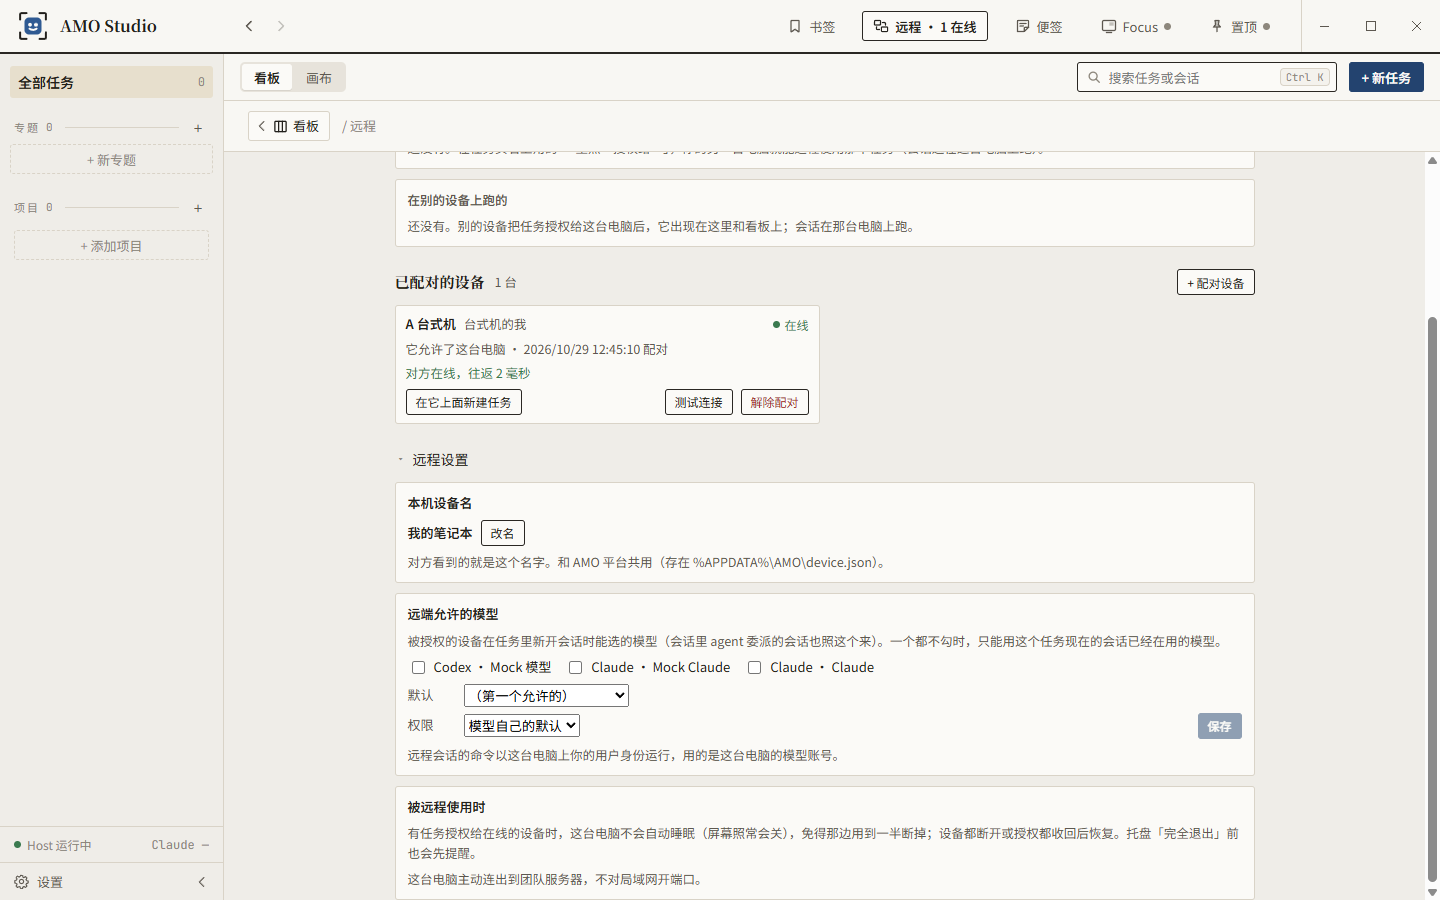
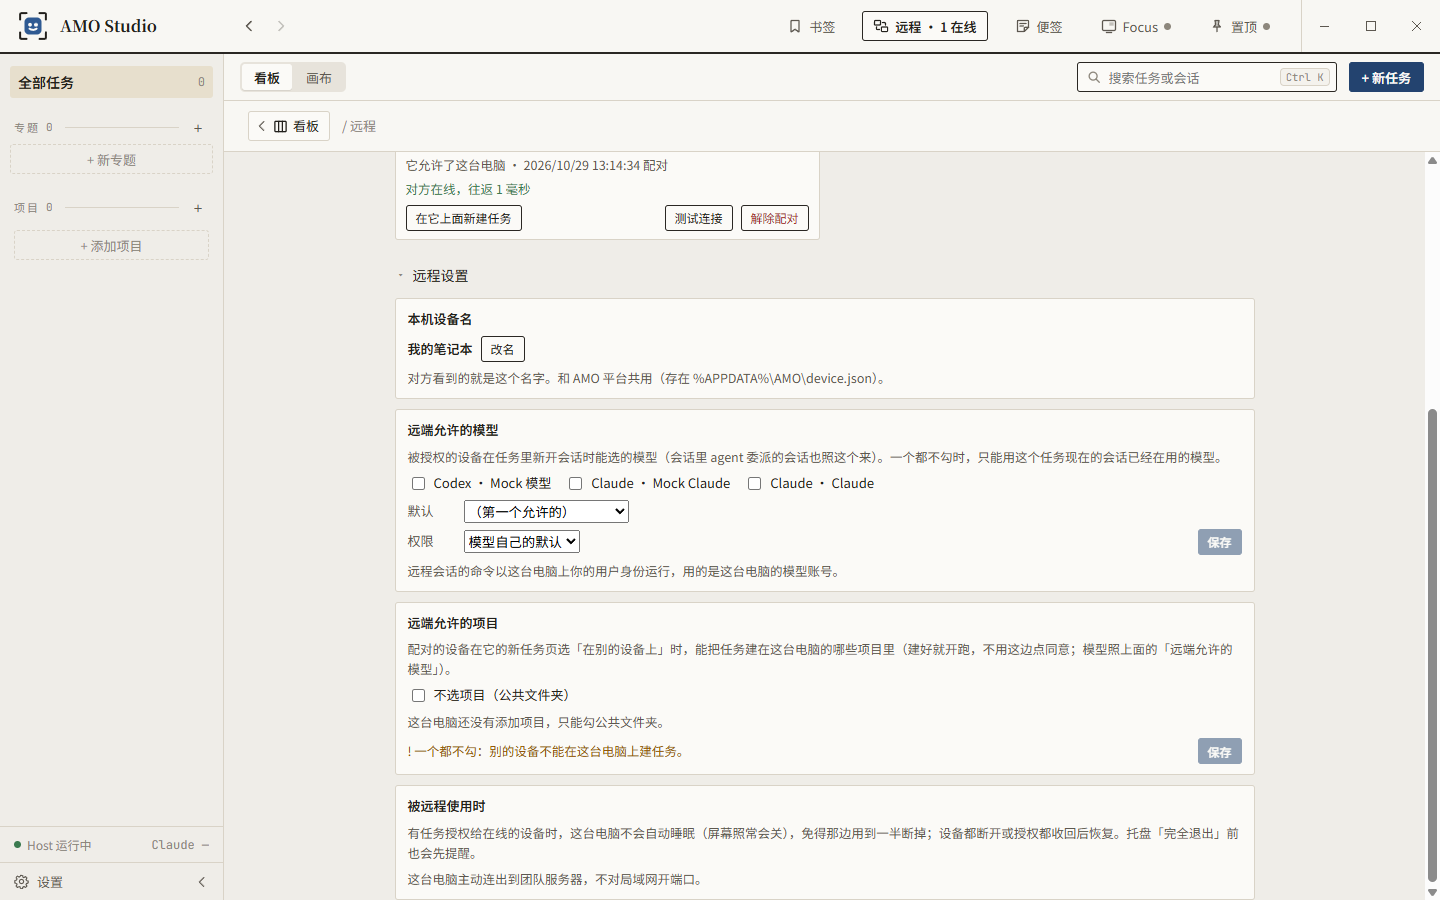
test(studio): e2e for 远程创建 — two Studios through an in-process relay: B's new-task page says where to tick on A before anything is allowed; A ticks a model and a project in 远程设置; B opens 新任务 from A's device card in 「在别的设备上」, sees only the allowed project (「不选」 greyed) and model, the topic picks its 

diff --git a/studio/e2e/studio/remote-create.spec.ts b/studio/e2e/studio/remote-create.spec.ts
@@ -1,0 +1,152 @@
+import { mkdtempSync } from "node:fs";
+import { tmpdir } from "node:os";
+import { join } from "node:path";
+import { pathToFileURL } from "node:url";
+import { expect, test, type Page } from "@playwright/test";
+import type { ModelProfile, RemoteState, Session, Task, Topic, Workspace } from "@amo-studio/protocol";
+import { removeTempDir } from "@amo-studio/testkit";
+import { launchStudio, screenshot, studioRoot, type Studio } from "../support/studio.js";
+
+// 远程创建 (plans/remote-page-and-new-task.md 4.1, 2026-10-29): two Studios on this machine (each its own AMO_HOME and
+// data, the mock model), paired through a relay service started here — never the team server. A ticks 远端允许的模型 and
+// 远端允许的项目 in 远程 → 远程设置 (before that, B's new-task page says where to tick); B opens 新任务, switches to
+// 「在别的设备上」 (the device card's 「在它上面新建任务」 does it with A picked), picks a topic — its one allowed project
+// comes with it — types the first sentence, Enter: the task is made on A in that topic and project, granted to B, its
+// session runs on A, and B's page opens the copy.
+
+const relay = (await import(pathToFileURL(join(studioRoot, "packages", "relay", "dist", "index.js")).href)) as typeof import("../../packages/relay/src/index.js");
+const account = (await import(pathToFileURL(join(studioRoot, "packages", "account", "dist", "index.js")).href)) as typeof import("../../packages/account/src/index.js");
+
+let root = "";
+let store: InstanceType<typeof relay.RelayStore> | undefined;
+let server: Awaited<ReturnType<typeof relay.startRelayServer>> | undefined;
+const studios: Studio[] = [];
+
+test.afterEach(async () => {
+  for (const s of studios.splice(0)) await s.close().catch(() => undefined);
+  await server?.close();
+  store?.close();
+  server = undefined;
+  store = undefined;
+  if (root) removeTempDir(root);
+  root = "";
+});
+
+async function until<T>(read: () => Promise<T>, ok: (v: T) => boolean, what: string, ms = 30_000): Promise<T> {
+  const end = Date.now() + ms;
+  for (;;) {
+    const v = await read();
+    if (ok(v)) return v;
+    if (Date.now() > end) throw new Error(`timed out waiting for ${what}`);
+    await new Promise((r) => setTimeout(r, 200));
+  }
+}
+
+/** The top bar's 「远程」 → the remote page. */
+async function openRemote(page: Page) {
+  await page.getByTestId("topbar-remote").click();
+  const remote = page.getByRole("region", { name: "远程", exact: true });
+  await expect(remote).toBeVisible();
+  return remote;
+}
+
+test("A ticks a project and a model; B creates a task on A from its new-task page: made in the topic and project, running on A, the copy opened on B", async () => {
+  test.setTimeout(300_000);
+  root = mkdtempSync(join(tmpdir(), "amo-remote-create-e2e-"));
+  store = new relay.RelayStore(join(root, "relay", "relay.db"));
+  server = await relay.startRelayServer({ store, host: "127.0.0.1", port: 0, name: "测试组" });
+  const home = async (name: string, key: string, device: string) => {
+    const dir = join(root, `home-${name}`);
+    await account.saveAccount({ server: server!.url, name, key }, { env: { AMO_HOME: dir } });
+    account.setDeviceName(device, { env: { AMO_HOME: dir } });
+    return dir;
+  };
+  const a = await launchStudio({ env: { AMO_HOME: await home("台式机的我", store.register("台式机的我", "pw-aaaa").key, "A 台式机") } });
+  studios.push(a);
+  const b = await launchStudio({ env: { AMO_HOME: await home("笔记本的我", store.register("笔记本的我", "pw-bbbb").key, "B 笔记本") } });
+  studios.push(b);
+  await until(() => b.api<RemoteState>("GET", "/api/remote"), (s) => s.connection.state === "online", "B online");
+  await until(() => a.api<RemoteState>("GET", "/api/remote"), (s) => s.connection.state === "online", "A online");
+  await b.api("POST", "/api/remote/pair", { account: "台式机的我" });
+  const asked = await until(() => a.api<RemoteState>("GET", "/api/remote"), (s) => s.incoming.length === 1, "A sees the pairing request");
+  await a.api("POST", `/api/remote/requests/${asked.incoming[0]!.id}/answer`, { allow: true });
+  await until(() => b.api<RemoteState>("GET", "/api/remote"), (s) => s.peers[0]?.online === true, "B sees A online");
+
+  // A: two projects and a topic whose projects are both (only one will be allowed).
+  const allowed = await a.api<Workspace>("POST", "/api/workspaces", { path: a.workspace("可以远程的项目") });
+  const other = await a.api<Workspace>("POST", "/api/workspaces", { path: a.workspace("不给远程的项目") });
+  const topic = await a.api<Topic>("POST", "/api/topics", { title: "掉落表整理", workspaceIds: [allowed.id, other.id] });
+
+  // B before A ticked anything: the switch is there, and the page says where to tick on A.
+  await b.page.getByRole("button", { name: "+ 新任务" }).click();
+  const side = b.page.getByTestId("draft-side");
+  await expect(side).toBeVisible();
+  await side.getByRole("button", { name: "在别的设备上" }).click();
+  const draft = b.page.getByTestId("remote-draft");
+  await expect(draft.getByTestId("remote-draft-device")).toHaveText("A 台式机");
+  await expect(draft.getByTestId("remote-draft-device")).toHaveAttribute("aria-pressed", "true");
+  await expect(draft.getByTestId("remote-draft-state")).toContainText("A 台式机 还没勾远端允许的项目：在那台电脑的 远程 → 远程设置 里勾");
+  await expect(b.page.getByTestId("remote-draft-start")).toBeDisabled();
+  await screenshot(b.app, "studio", "remote-create-not-allowed", b.page);
+  // Back to this computer: the local rows again.
+  await side.getByRole("button", { name: "在这台电脑上" }).click();
+  await expect(b.page.getByRole("group", { name: "设备" })).toHaveCount(0);
+  await expect(b.page.getByRole("group", { name: "项目" })).toBeVisible();
+  await b.page.getByTestId("back").click();
+
+  // A: 远程 → 远程设置: a model, then a project (not the common folder).
+  const aRemote = await openRemote(a.page);
+  await aRemote.getByTestId("remote-settings-open").click();
+  const mock = (await a.api<{ profiles: ModelProfile[] }>("GET", "/api/state")).profiles.find((p) => p.id === "codex-mock")!;
+  const models = aRemote.getByTestId("remote-allowed");
+  await models.getByTestId("remote-allowed-item").filter({ hasText: mock.label }).locator("input").check();
+  await models.getByTestId("remote-allowed-save").click();
+  await expect(aRemote.getByTestId("remote-message")).toHaveText("已保存远端允许的模型");
+  const projects = aRemote.getByTestId("remote-allowed-projects");
+  await expect(projects.getByTestId("remote-allowed-projects-state")).toHaveText("! 一个都不勾：别的设备不能在这台电脑上建任务。");
+  await projects.getByTestId("remote-allowed-project").filter({ hasText: "可以远程的项目" }).locator("input").check();
+  await expect(projects.getByTestId("remote-allowed-projects-state")).toHaveText("别的设备可以在 1 个项目里建任务。");
+  await projects.getByTestId("remote-allowed-projects-save").click();
+  await expect(aRemote.getByTestId("remote-message")).toHaveText("已保存远端允许的项目");
+  await projects.scrollIntoViewIfNeeded();
+  await screenshot(a.app, "studio", "remote-allowed-projects", a.page);
+  expect((await a.api<RemoteState>("GET", "/api/remote")).allowedProjects).toEqual({ workspaceIds: [allowed.id], common: false });
+
+  // B: 远程 → A's card → 在它上面新建任务: the new-task page in 「在别的设备上」, A picked, A's catalog.
+  const bRemote = await openRemote(b.page);
+  await bRemote.getByTestId("remote-peer").filter({ hasText: "A 台式机" }).getByTestId("remote-new-task").click();
+  await expect(b.page.getByTestId("draft-side-remote")).toHaveAttribute("aria-pressed", "true");
+  const topics = draft.getByRole("group", { name: "专题" });
+  const projectRow = draft.getByRole("group", { name: "项目" });
+  await expect(topics.getByRole("button", { name: "掉落表整理" })).toBeVisible();
+  // Only the allowed project; 「不选」 (the common folder) is not allowed there.
+  await expect(projectRow.getByRole("button")).toHaveText(["不选", "可以远程的项目"]);
+  await expect(projectRow.getByRole("button", { name: "不选" })).toBeDisabled();
+  await expect(b.page.getByTestId("remote-draft-model")).toHaveText([`Codex · ${mock.label}`]);
+  await expect(b.page.getByTestId("remote-draft-model")).toHaveAttribute("aria-pressed", "true");
+  await expect(b.page.getByTestId("remote-draft-attach-note")).toContainText("远程任务暂时不能发图片和文件");
+  // The topic picks its one allowed project.
+  await topics.getByRole("button", { name: "掉落表整理" }).click();
+  await expect(projectRow.getByRole("button", { name: /可以远程的项目/ })).toHaveAttribute("aria-pressed", "true");
+  await expect(b.page.getByTestId("scope-hint")).toHaveText("在 A 台式机 上的 可以远程的项目 里运行 · 放进那边的「掉落表整理」");
+  const text = b.page.getByTestId("remote-draft-text");
+  await text.fill("在台式机上整理掉落表");
+  await screenshot(b.app, "studio", "remote-create-page", b.page);
+  await text.press("Enter");
+
+  // B: the copy's task page, the session running on A.
+  await expect(b.page.locator(".page-head")).toContainText("在台式机上整理掉落表", { timeout: 60_000 });
+  await expect(b.page.getByTestId("msg-agent").last()).toContainText("MOCK: 在台式机上整理掉落表", { timeout: 60_000 });
+  await screenshot(b.app, "studio", "remote-create-running", b.page);
+  // A: the task in the topic and the allowed project, granted to B, its session on the allowed model.
+  const aState = await a.api<{ tasks: Task[]; sessions: Session[] }>("GET", "/api/state");
+  const made = aState.tasks.find((t) => t.title === "在台式机上整理掉落表")!;
+  expect(made).toMatchObject({ workspaceId: allowed.id, topicId: topic.id, column: "doing" });
+  expect(aState.sessions.filter((s) => s.taskId === made.id).map((s) => s.profileId)).toEqual(["codex-mock"]);
+  expect((await a.api<RemoteState>("GET", "/api/remote")).grants).toMatchObject([{ taskId: made.id, account: "笔记本的我" }]);
+  // B's board: the remote card.
+  await b.page.getByTestId("back").click();
+  await b.page.getByTestId("back").click();
+  const card = b.page.getByTestId("task-card").filter({ hasText: "在台式机上整理掉落表" });
+  await expect(card).toHaveAttribute("data-remote", "online", { timeout: 30_000 });
+});

diff --git a/studio/e2e/studio/remote-requests.spec.ts b/studio/e2e/studio/remote-requests.spec.ts
@@ -8,8 +8,8 @@ import { removeTempDir } from "@amo-studio/testkit";
 import { launchStudio, screenshot, studioRoot, type Studio } from "../support/studio.js";
 
 // 远程, step 4 (plans/remote-session.md 方式 2, 2026-10-29): two Studios on this machine (each its own AMO_HOME and data,
-// the mock model), paired through a relay service started here — never the team server. B asks A to run a task from
-// the remote page (the top bar's 「远程」, 设置 → 远程 until 2026-10-29); A's Focus shows the request; A picks the project and an allowed model and allows it; B's board shows the
+// the mock model), paired through a relay service started here — never the team server. B asks A to run a task (as an
+// older B does: a new one creates it from its new-task page, remote-create.spec.ts); A's Focus shows the request; A picks the project and an allowed model and allows it; B's board shows the
 // task, running. A refuses a second request with a reason, and B reads it.
 
 const relay = (await import(pathToFileURL(join(studioRoot, "packages", "relay", "dist", "index.js")).href)) as typeof import("../../packages/relay/src/index.js");
@@ -83,19 +83,11 @@ test("B asks A to run a task; A's Focus shows it, A picks the project and an all
   await a.api("PUT", "/api/remote/allowed", { profiles: ["codex-mock"], defaultProfile: "codex-mock", permission: null });
   const aFocus = await turnOnFocus(a.page, a.app);
 
-  // B: 远程 → the paired device → 在它上面新建任务 (the request dialog, until the new-task page has a remote mode).
+  // B sends a request as an older B would (远程创建 replaced the request dialog, 2026-10-29: a new B creates the task
+  // from its new-task page, remote-create.spec.ts); A still answers requests, and B still lists what it sent.
   const bSettings = await openRemote(b.page);
-  const peer = bSettings.getByTestId("remote-peer").filter({ hasText: "A 台式机" });
-  await expect(peer.getByTestId("remote-ask-open")).toHaveText("在它上面新建任务");
-  await peer.getByTestId("remote-ask-open").click();
-  const ask = b.page.getByTestId("remote-ask-dialog");
-  await ask.getByTestId("remote-ask-title").fill("远程请求的任务");
-  await ask.getByTestId("remote-ask-text").fill("请帮我跑一下这个");
-  await expect(ask).toContainText("只在 A 台式机 在线时能发");
-  await screenshot(b.app, "studio", "remote-ask-dialog", b.page);
-  await ask.getByTestId("remote-ask-send").click();
-  await expect(ask).toHaveCount(0);
-  await expect(bSettings.getByTestId("remote-message")).toHaveText("已发给 A 台式机，等它同意");
+  const sentA = (await b.api<RemoteState>("GET", "/api/remote")).peers.find((p) => p.role === "guest")!;
+  await b.api("POST", "/api/remote/asks", { account: sentA.account, device: sentA.device, title: "远程请求的任务", text: "请帮我跑一下这个" });
   // The request waits under 「在别的设备上跑的」.
   const sent = bSettings.getByTestId("remote-copies").getByTestId("remote-ask");
   await expect(sent).toHaveAttribute("data-state", "pending");
@@ -142,10 +134,7 @@ test("B asks A to run a task; A's Focus shows it, A picks the project and an all
 
   // A second request, refused with a reason: B reads it (and the dot on the top bar's 「远程」 says there is something to see).
   const again = await openRemote(b.page);
-  await again.getByTestId("remote-peer").filter({ hasText: "A 台式机" }).getByTestId("remote-ask-open").click();
-  await b.page.getByTestId("remote-ask-title").fill("第二个请求");
-  await b.page.getByTestId("remote-ask-text").fill("这个也跑一下");
-  await b.page.getByTestId("remote-ask-send").click();
+  await b.api("POST", "/api/remote/asks", { account: sentA.account, device: sentA.device, title: "第二个请求", text: "这个也跑一下" });
   await until(() => a.api<RemoteState>("GET", "/api/remote"), (s) => s.taskRequests.length === 1, "A has the second request");
   const aAgain = await openRemote(a.page);
   await aAgain.getByTestId("remote-task-request").getByTestId("remote-task-refuse").click();

diff --git a/studio/e2e/studio/remote.spec.ts b/studio/e2e/studio/remote.spec.ts
@@ -126,14 +126,14 @@ test("B asks to pair, A allows from Focus, both test the connection, A unpairs a
   await expect(aPeer.getByTestId("remote-presence")).toHaveText("在线");
   await expect(aPeer).toContainText("这台电脑允许了它");
   // Only a device that allowed this computer can run a task for it.
-  await expect(aPeer.getByTestId("remote-ask-open")).toHaveCount(0);
+  await expect(aPeer.getByTestId("remote-new-task")).toHaveCount(0);
 
   // B: A is there, online; the request is gone from its list.
   const bPeer = bRemote.getByTestId("remote-peer");
   await expect(bPeer).toHaveCount(1, { timeout: 20_000 });
   await expect(bPeer).toContainText("A 台式机");
   await expect(bPeer).toContainText("它允许了这台电脑");
-  await expect(bPeer.getByTestId("remote-ask-open")).toHaveText("在它上面新建任务");
+  await expect(bPeer.getByTestId("remote-new-task")).toHaveText("在它上面新建任务");
   await expect(bRemote.getByTestId("remote-outgoing")).toHaveCount(0);
   await expect(b.page.getByTestId("topbar-remote")).toHaveText("远程 · 1 在线");
 
